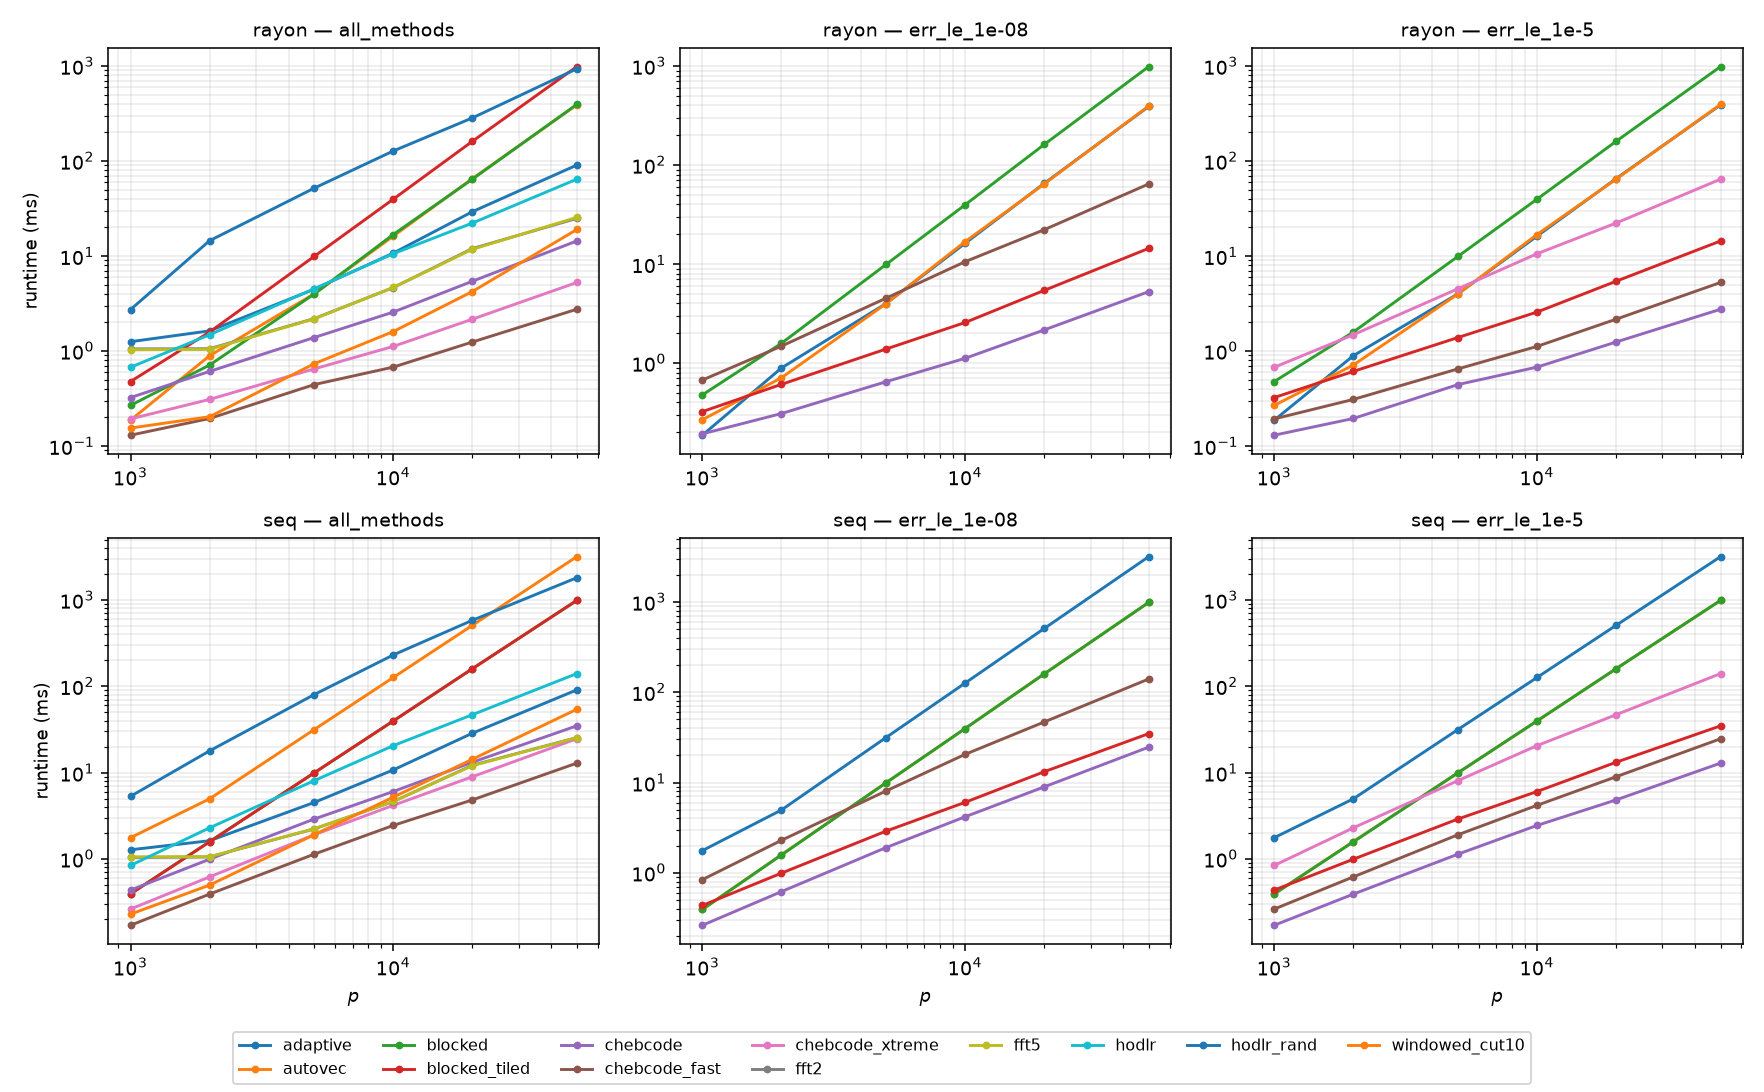
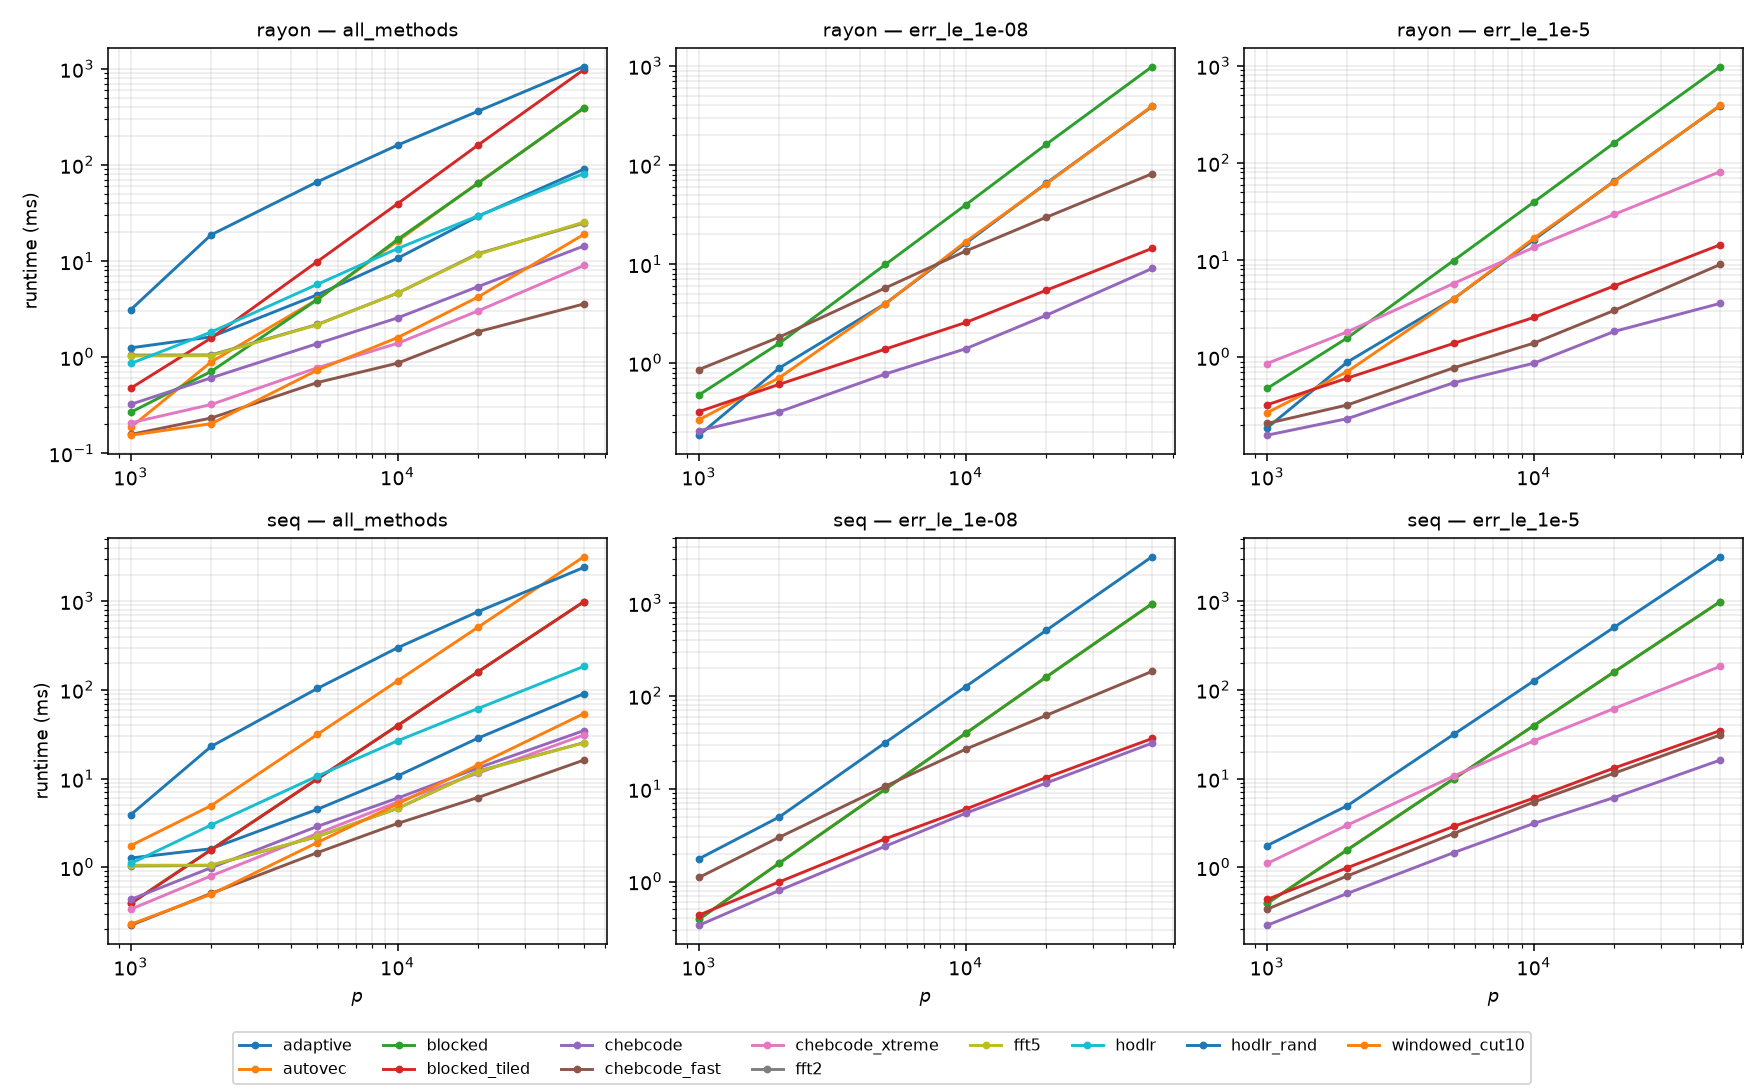
chore(pareto): regenerate the preset table against the final kernel set
Fresh full sweep (11 method-configs x {seq,rayon} x p in {1k..50k},
eta = 1/sqrt(p), MP-like spectra, rel-L2 vs exact) written to
docs/pareto/bench_after.json; build_pareto_table.py regenerated
src/config/pareto_autogen.rs and both plot scripts refreshed the five
docs/pareto PNGs. The fft2 measurement row is dropped from
pareto_data: since Fft2/Fft3 were routed to the fft5 kernel it only
re-measured the same code under a second name.

Pick changes vs the stale (pre-rewrite) table:

* speed/sequential bins up to p<=20000 move from Fft5 to ChebCodeFast;
  the top bin keeps Fft5 (15.5 ms at p=50000 this run).
* accuracy-intent flips stay inside the exact family (Blocked /
  BlockedTiled / AutoVectorized trading on runtime tie-breaks at
  1e-15..0 relative error).

The generator now emits pre-expanded Bin literals so its output is
rustfmt-stable by construction instead of fighting cargo fmt on every
regeneration.

Caveat recorded in CHANGELOG: single-session sweep, so bins decided by
runtime ties carry normal run-to-run noise; accuracy ordering is
unaffected.

diff --git a/src/config/pareto_autogen.rs b/src/config/pareto_autogen.rs
@@ -1,5 +1,5 @@
 // AUTO-GENERATED by scripts/build_pareto_table.py — DO NOT EDIT.
-// Source: docs/pareto/bench_after.json (2026-08-24 01:16 UTC);
+// Source: docs/pareto/bench_after.json (2026-08-24 14:20 UTC);
 // Apple M-series (8 P-cores), MP-like spectra, eta = 1/sqrt(p).
 //
 // Preset intents:
@@ -24,43 +24,43 @@ const BINS: &[Bin] = &[
         p_max: 1000,
         speed_seq: StieltjesMethod::ChebCodeFast,
         speed_par: StieltjesMethod::ChebCodeFast,
-        acc_seq: StieltjesMethod::Blocked,
-        acc_par: StieltjesMethod::BlockedTiled,
+        acc_seq: StieltjesMethod::BlockedTiled,
+        acc_par: StieltjesMethod::Blocked,
     },
     Bin {
         p_max: 2000,
         speed_seq: StieltjesMethod::ChebCodeFast,
         speed_par: StieltjesMethod::ChebCodeFast,
-        acc_seq: StieltjesMethod::Blocked,
-        acc_par: StieltjesMethod::BlockedTiled,
+        acc_seq: StieltjesMethod::BlockedTiled,
+        acc_par: StieltjesMethod::AutoVectorized,
     },
     Bin {
         p_max: 5000,
-        speed_seq: StieltjesMethod::Fft5,
+        speed_seq: StieltjesMethod::ChebCodeFast,
         speed_par: StieltjesMethod::ChebCodeFast,
         acc_seq: StieltjesMethod::Blocked,
-        acc_par: StieltjesMethod::BlockedTiled,
+        acc_par: StieltjesMethod::AutoVectorized,
     },
     Bin {
         p_max: 10000,
-        speed_seq: StieltjesMethod::Fft5,
+        speed_seq: StieltjesMethod::ChebCodeFast,
         speed_par: StieltjesMethod::ChebCodeFast,
         acc_seq: StieltjesMethod::BlockedTiled,
-        acc_par: StieltjesMethod::Blocked,
+        acc_par: StieltjesMethod::BlockedTiled,
     },
     Bin {
         p_max: 20000,
         speed_seq: StieltjesMethod::ChebCodeFast,
         speed_par: StieltjesMethod::ChebCodeFast,
         acc_seq: StieltjesMethod::BlockedTiled,
-        acc_par: StieltjesMethod::BlockedTiled,
+        acc_par: StieltjesMethod::Blocked,
     },
     Bin {
         p_max: 50000,
         speed_seq: StieltjesMethod::Fft5,
         speed_par: StieltjesMethod::ChebCodeFast,
         acc_seq: StieltjesMethod::BlockedTiled,
-        acc_par: StieltjesMethod::Blocked,
+        acc_par: StieltjesMethod::BlockedTiled,
     },
 ];
 

diff --git a/scripts/build_pareto_table.py b/scripts/build_pareto_table.py
@@ -92,13 +92,14 @@ def main():
     ]
     for p in sizes:
         b = bins[p]
-        lines.append(
-            f"    Bin {{ p_max: {p}, "
-            f"speed_seq: StieltjesMethod::{rust_variant(b['seq']['speed']['method'])}, "
-            f"speed_par: StieltjesMethod::{rust_variant(b['rayon']['speed']['method'])}, "
-            f"acc_seq: StieltjesMethod::{rust_variant(b['seq']['accuracy']['method'])}, "
-            f"acc_par: StieltjesMethod::{rust_variant(b['rayon']['accuracy']['method'])} }},"
-        )
+        # Emitted pre-expanded so the output is already rustfmt-stable.
+        lines.append("    Bin {")
+        lines.append(f"        p_max: {p},")
+        lines.append(f"        speed_seq: StieltjesMethod::{rust_variant(b['seq']['speed']['method'])},")
+        lines.append(f"        speed_par: StieltjesMethod::{rust_variant(b['rayon']['speed']['method'])},")
+        lines.append(f"        acc_seq: StieltjesMethod::{rust_variant(b['seq']['accuracy']['method'])},")
+        lines.append(f"        acc_par: StieltjesMethod::{rust_variant(b['rayon']['accuracy']['method'])},")
+        lines.append("    },")
     lines += [
         "];",
         "",
@@ -115,7 +116,6 @@ def main():
         "        (false, true) => bin.acc_par,",
         "    }",
         "}",
-        "",
     ]
     out.write_text("\n".join(lines) + "\n")
     print(f"wrote {out}")

diff --git a/examples/pareto_data.rs b/examples/pareto_data.rs
@@ -98,7 +98,6 @@ fn main() {
             CutoffConfig::Disabled,
         ),
         ("fft5", StieltjesMethod::Fft5, CutoffConfig::Disabled),
-        ("fft2", StieltjesMethod::Fft2, CutoffConfig::Disabled),
         (
             "chebcode",
             StieltjesMethod::ChebCode,
